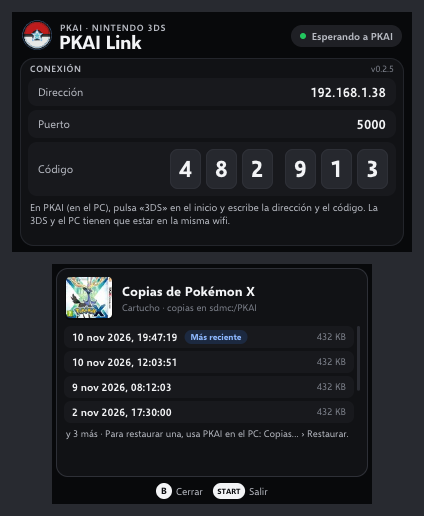
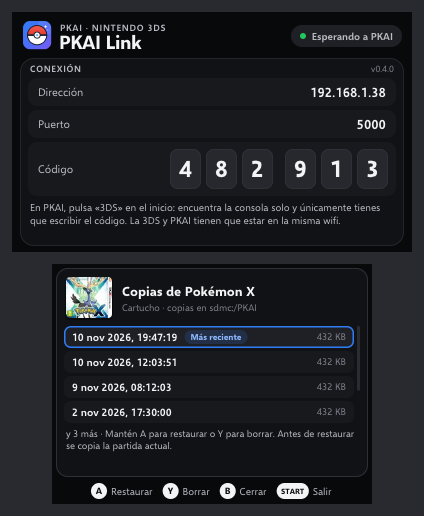
Documentación: restaurar copias de seguridad en la consola

diff --git a/docs/PKAI-Link.md b/docs/PKAI-Link.md
@@ -120,6 +120,7 @@ sdmc:/PKAI/
 - En la Switch, cada copia lleva delante el **usuario** de la consola; en la 3DS, la del cartucho lleva «Cartucho - ».
 - Detrás va la fecha y, si se lo pusiste, su nombre.
 - Desde PKAI puedes **abrir** cualquier copia, **compararla** con la partida actual, **restaurarla** en la consola (antes se guarda una copia de la actual), **guardarla** en una carpeta de tu PC o de tu móvil o **borrarla** (te pregunta antes).
+- **Restaurar copias en la consola,** sin PC ni móvil: en la ventana de copias, elige una y **mantén pulsado A** un par de segundos. Antes se guarda una copia de la partida actual, llamada «Antes de restaurar», por si quieres volver atrás. Si sueltas antes, no se cambia nada.
 - **Borrar copias en la consola:** en la ventana de copias, elige una y **mantén pulsado Y** un par de segundos. Si sueltas antes, no se borra.
 
 <table>
@@ -159,6 +160,8 @@ Al conectar la consola, si hay una versión nueva, PKAI enseña **Actualizar PKA
 | Arriba / abajo | Arriba / abajo | Elegir partida |
 | A | A | Hacer una copia (antes puedes ponerle nombre con el teclado) |
 | X | X | Ver sus copias |
+| Mantener A (en sus copias) | Mantener A (en sus copias) | Restaurar esa copia en la partida |
+| Mantener Y (en sus copias) | Mantener Y (en sus copias) | Borrar esa copia |
 | Y | Y | Copiar todas las partidas Pokémon |
 | R | R | Carpetas de la SD con partidas sueltas |
 | − | SELECT | Buscar las partidas otra vez |
